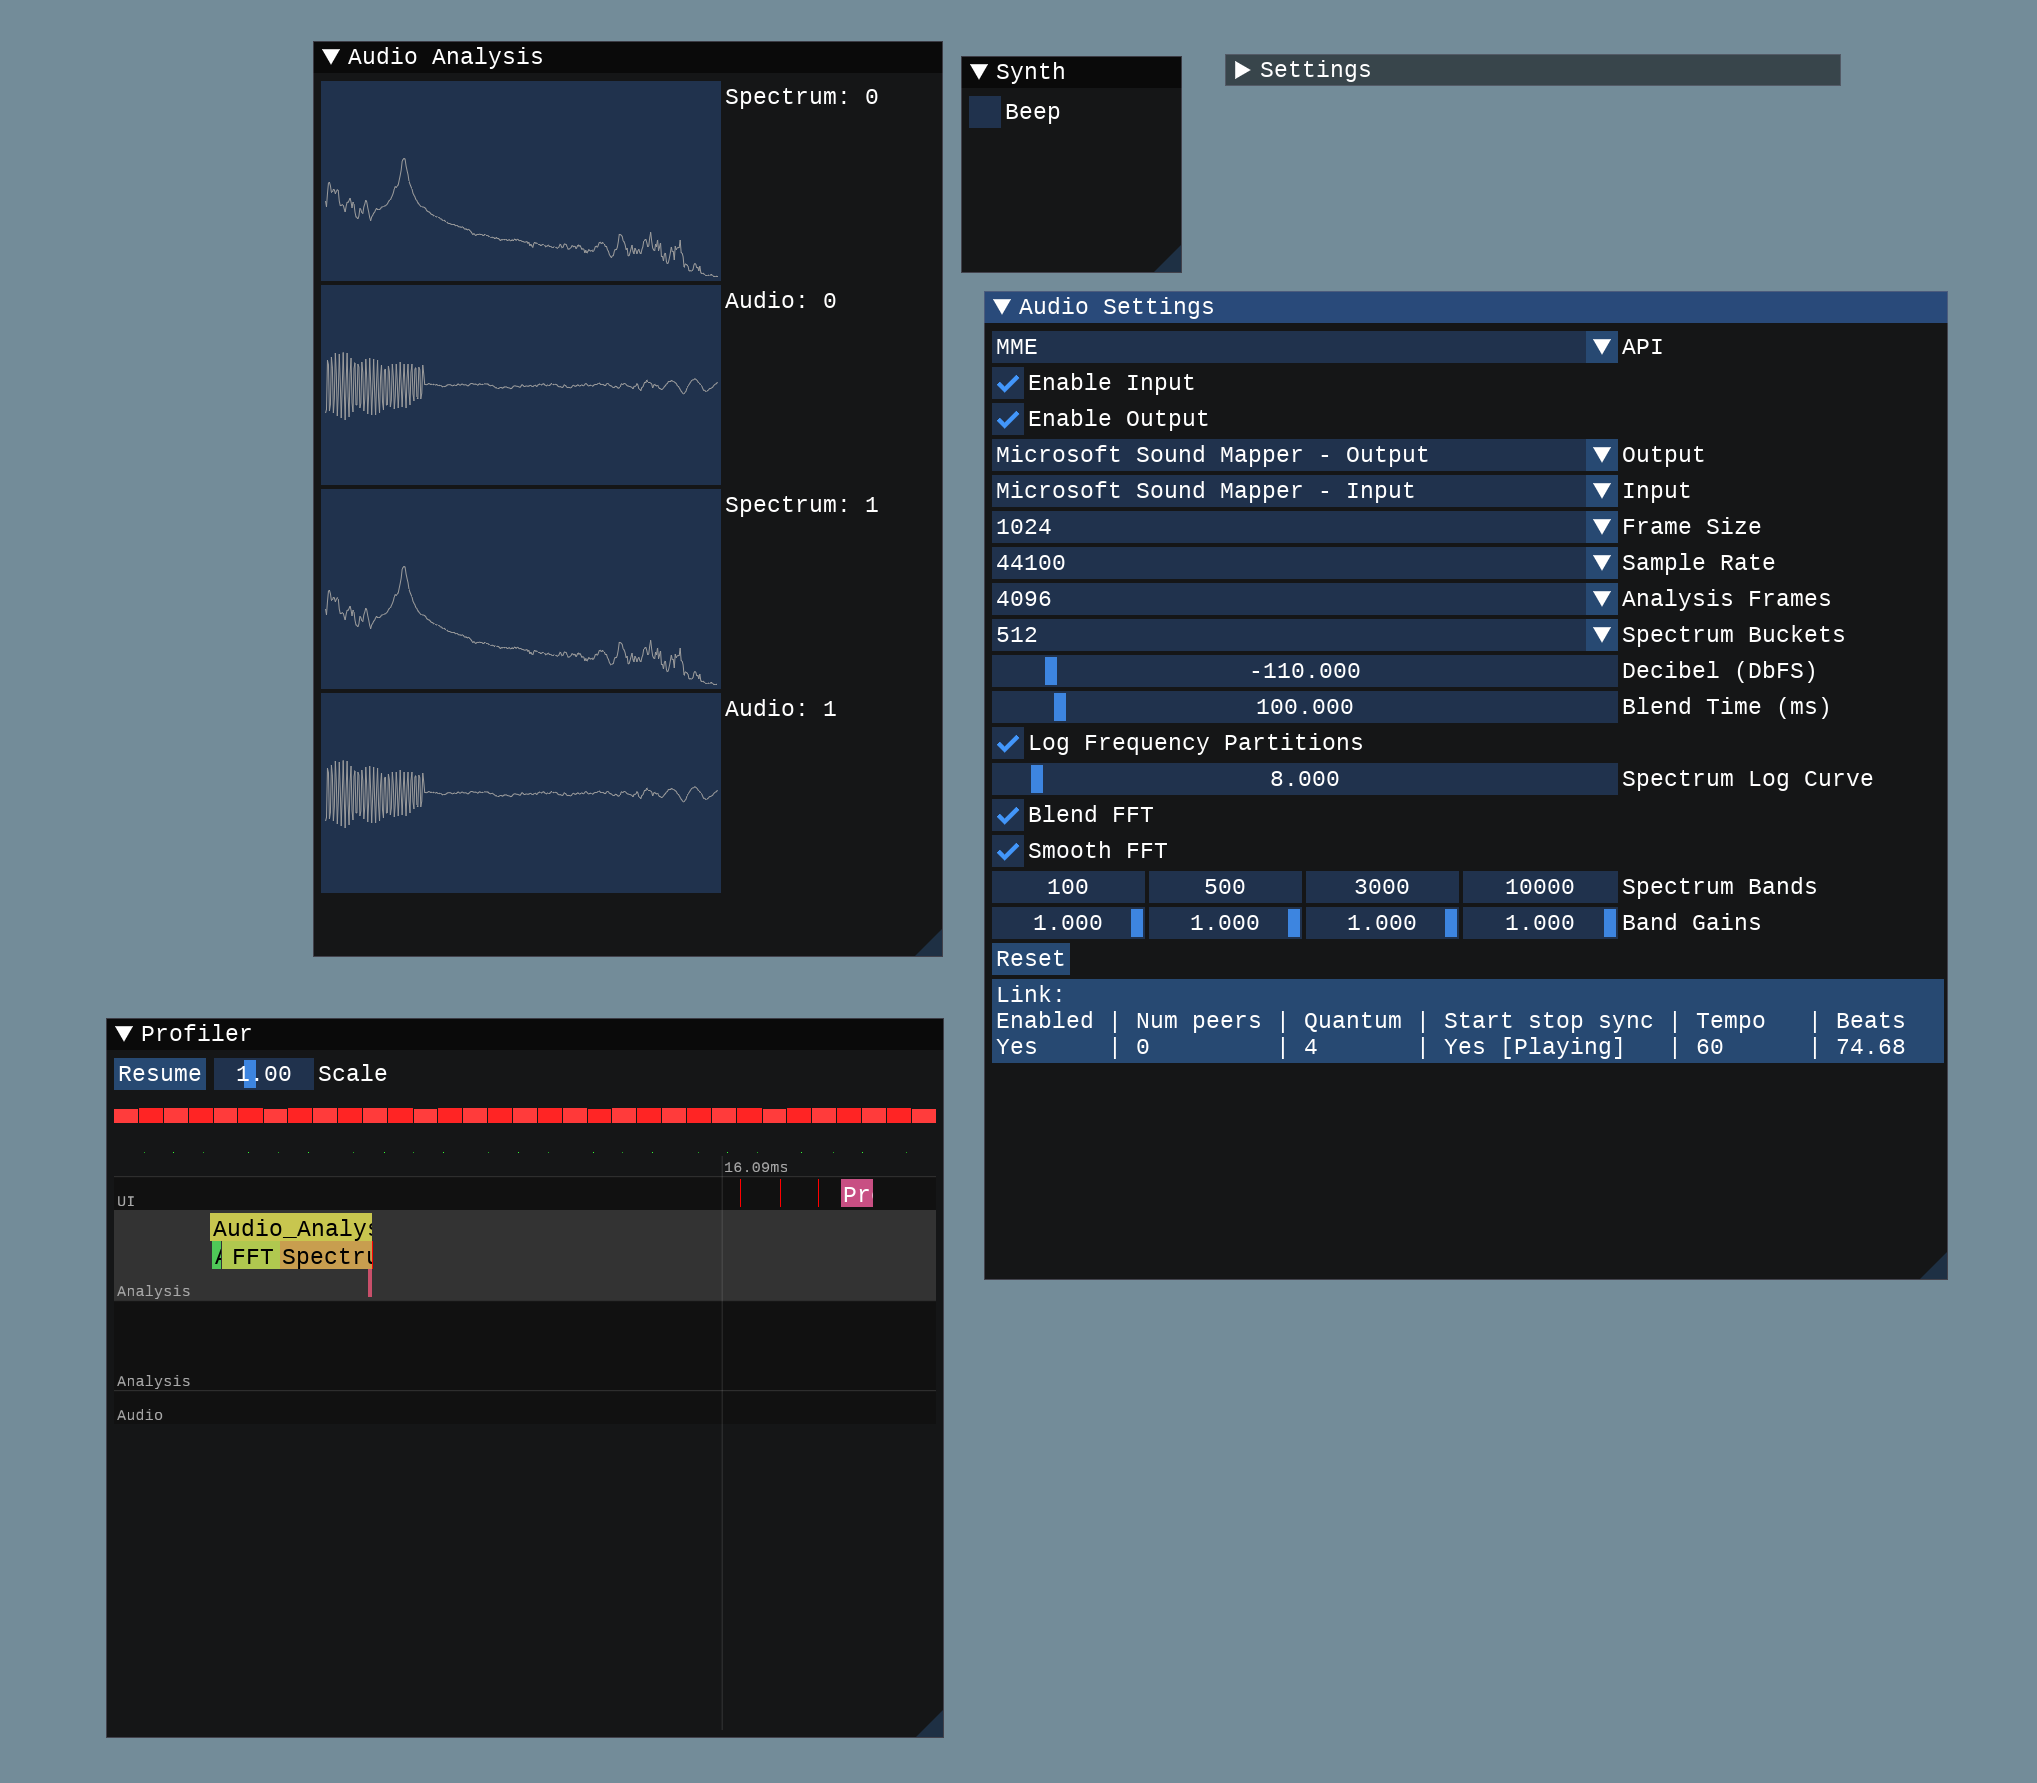
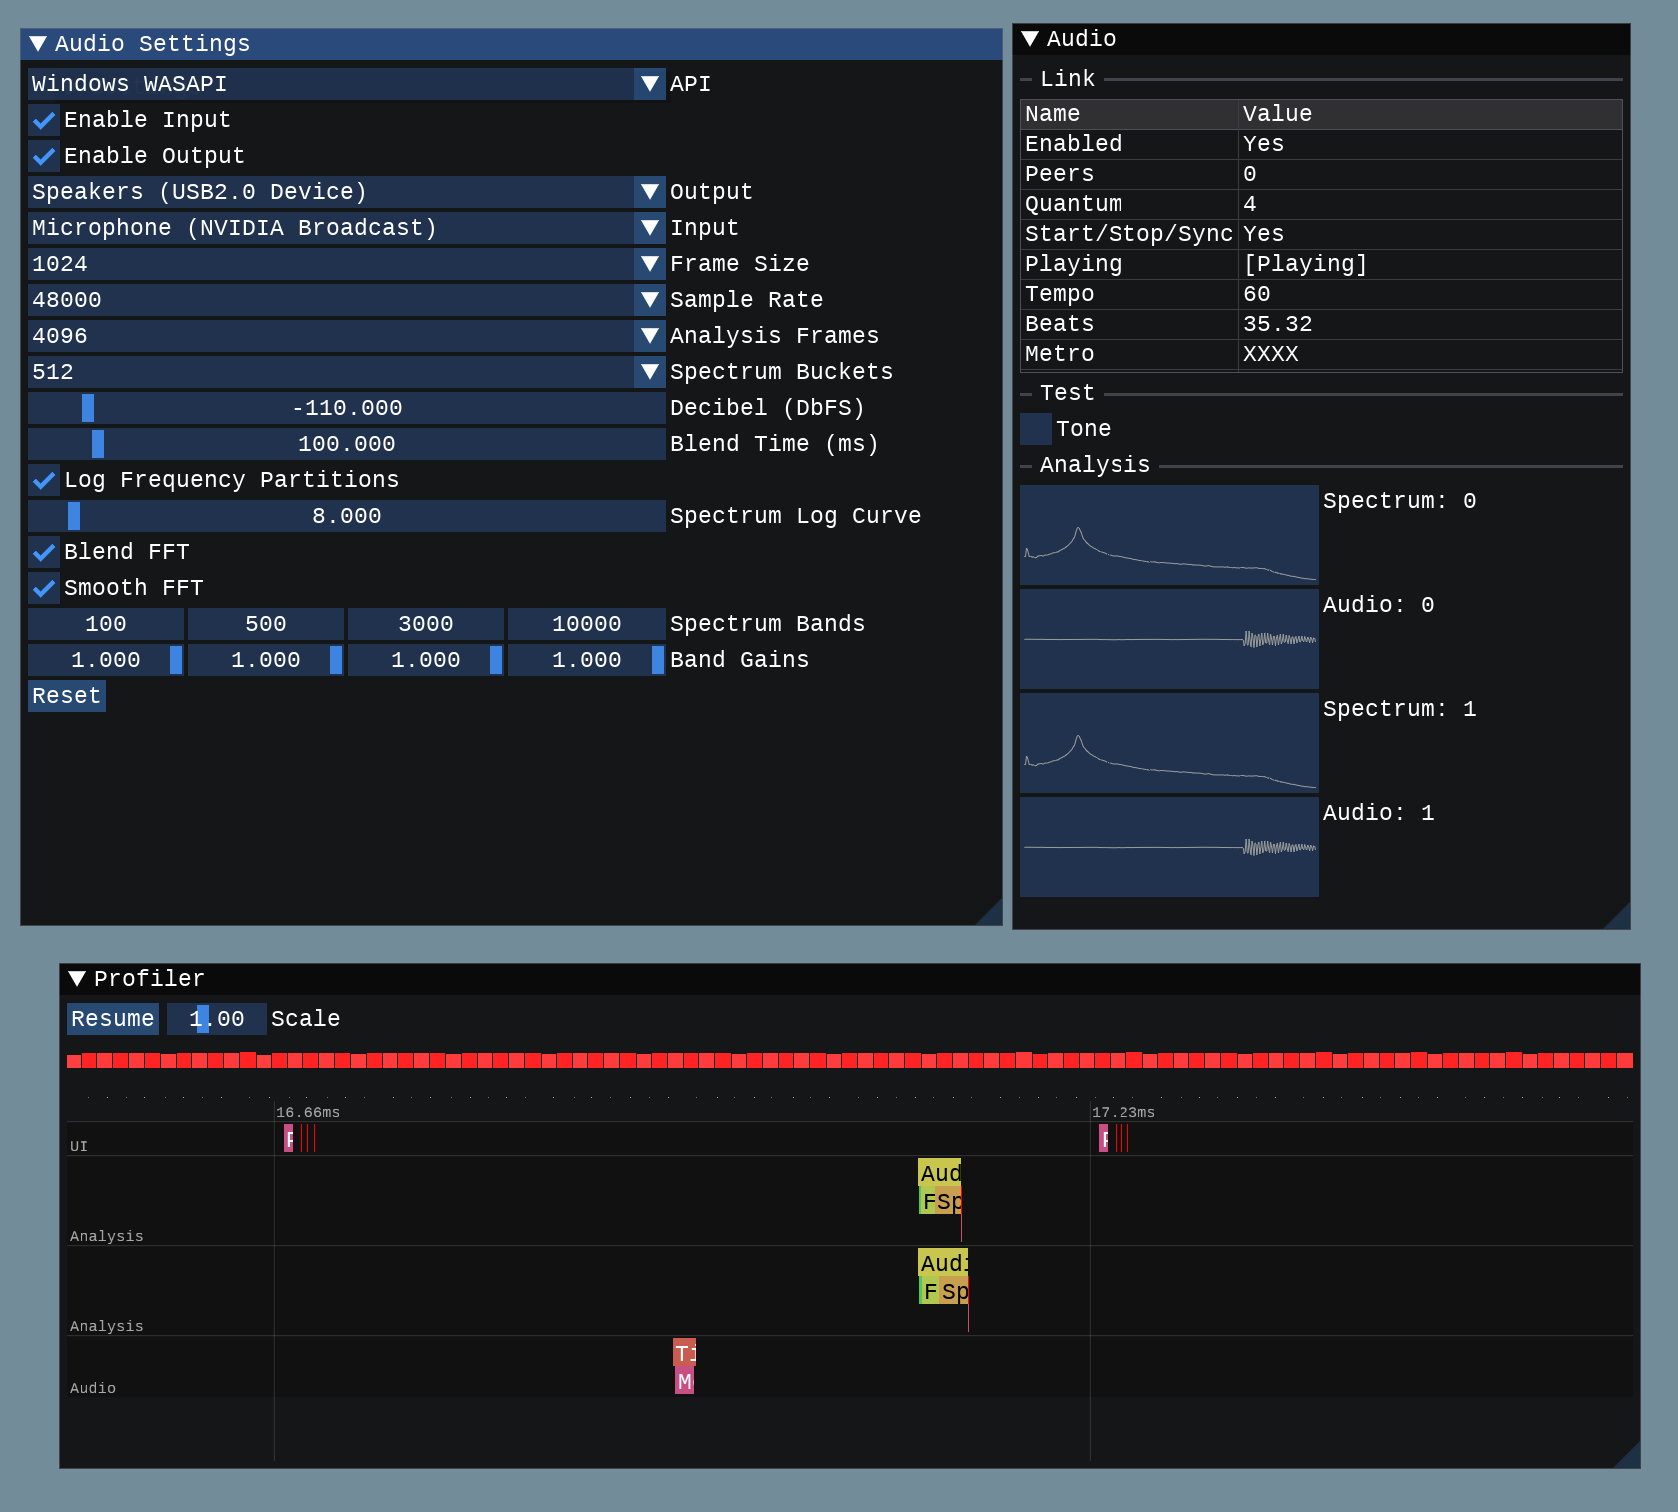
Cleanup, add screenshot

diff --git a/app/demo.cpp b/app/demo.cpp
@@ -118,7 +118,7 @@ void demo_draw()
 
     ImGui::SeparatorText("Test");
     ImGui::BeginDisabled(ctx.outputState.channelCount == 0 ? true : false);
-    ImGui::Checkbox("Beep", &playNote);
+    ImGui::Checkbox("Tone", &playNote);
     ImGui::EndDisabled();
 
     ImGui::SeparatorText("Analysis");

diff --git a/app/main.cpp b/app/main.cpp
@@ -540,7 +540,7 @@ int main(int, char**)
     }
 
     // Our state
-    bool show_demo_window = true;
+    bool show_demo_window = false;
     ImVec4 clear_color = ImVec4(0.45f, 0.55f, 0.60f, 1.00f);
 
     // Main loop
